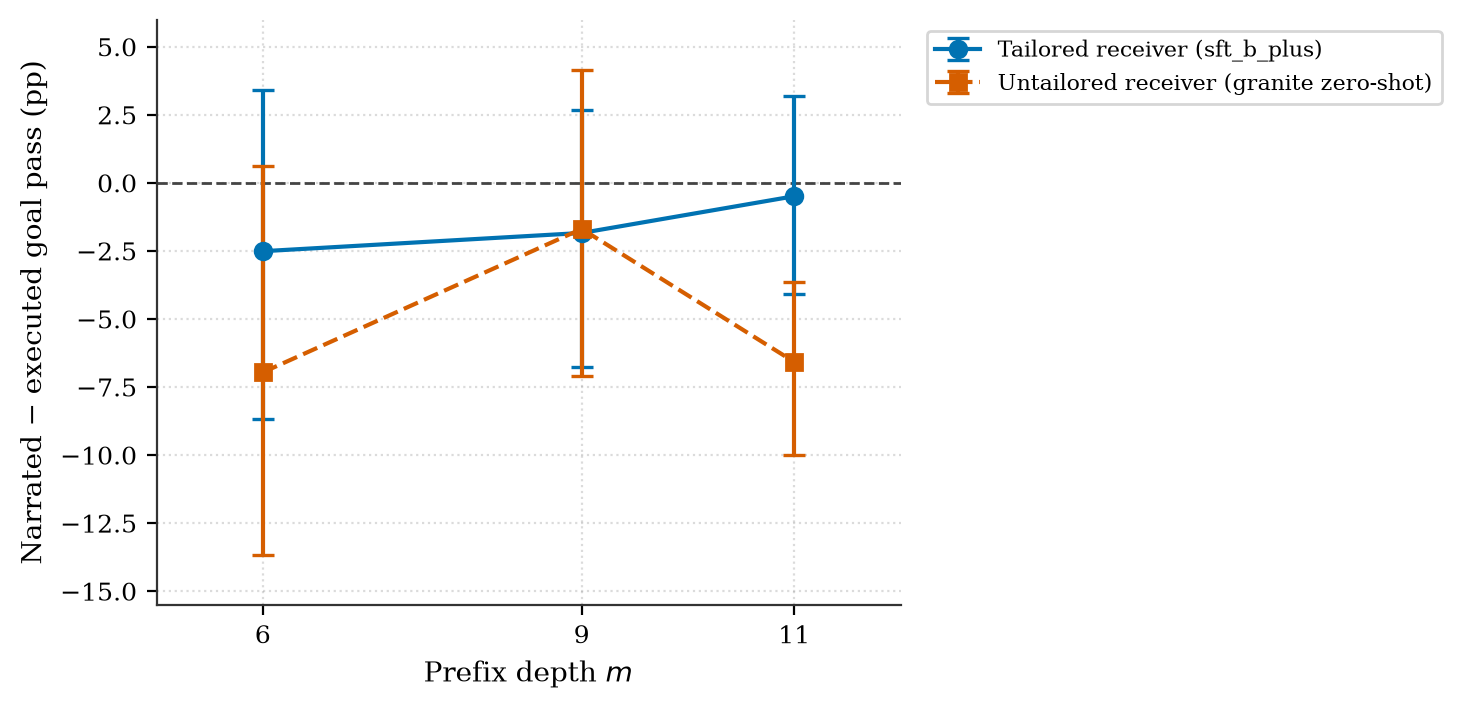
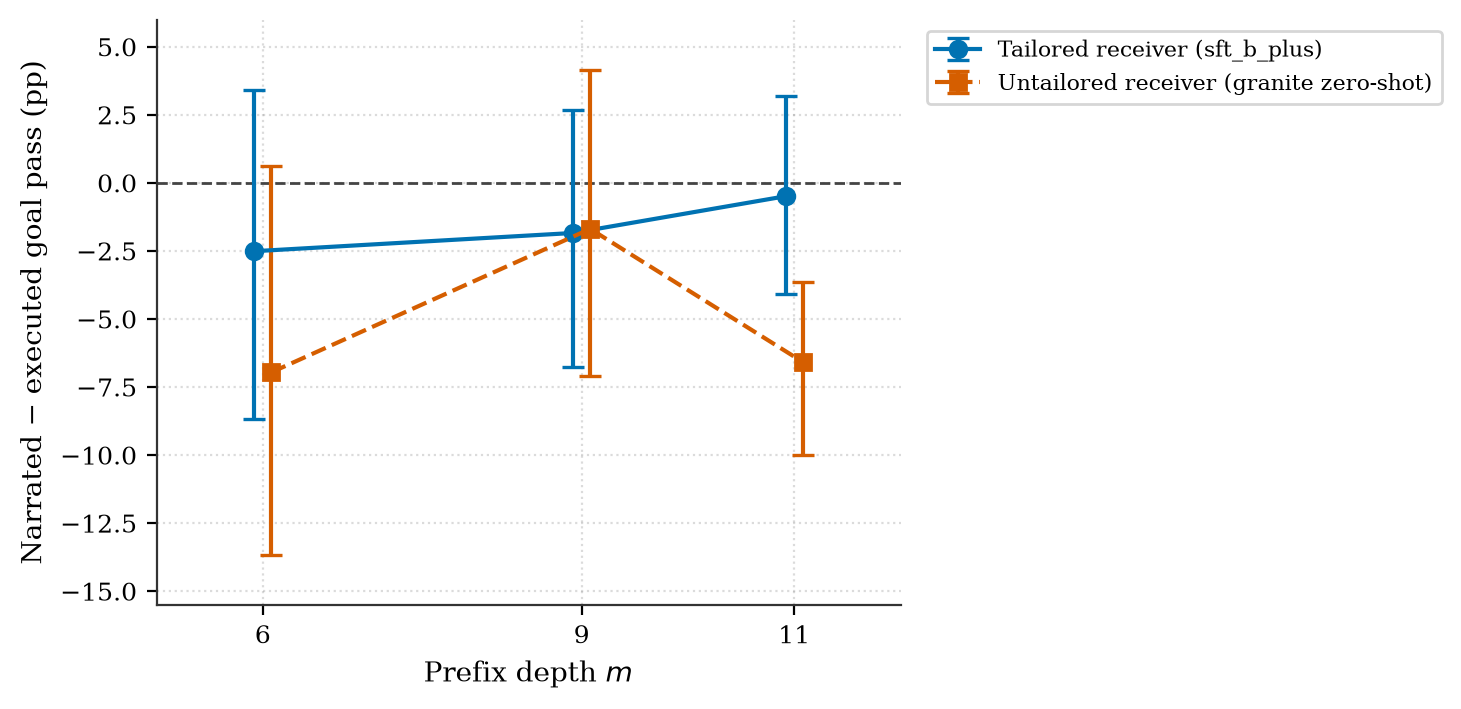
Dodge F7's two series so the crossing they exist to show is visible
The tailored and untailored points sat on top of each other at m=9 (-1.84 against -1.69), which
is exactly where the two receivers cross and the only place the figure's claim is legible. A
+/-0.08 horizontal offset on the markers and error bars separates them; tick labels stay at the
true depths and no y value, interval or caption number moved. F8's x limit widened so the
rightmost annotation cannot clip.

Verified rather than accepted: read the diff (8 lines, all x-axis), re-ran the full suite myself
at 627 passed 1 skipped, and looked at the render.

Claude-Session: https://claude.ai/code/session_01WAcXxoXWcJdXBPnbnHPek8

diff --git a/scripts/analysis/figures.py b/scripts/analysis/figures.py
@@ -1208,19 +1208,21 @@ def generate_f7_narrated_minus_executed(
             PALETTE["tailored"],
             results_dir / "hj16_narrated_curve_bplus_20260923.report.json",
             "goal_pass_all_narrated_t_m{m}_minus_executed_t_m{m}",
+            -0.08,
         ),
         (
             "Untailored receiver (granite zero-shot)",
             PALETTE["zeroshot"],
             results_dir / "hj16_narrated_curve_zs_20260923.report.json",
             "goal_pass_all_narrated_m{m}_minus_executed_m{m}",
+            0.08,
         ),
     ]
 
     fig, ax = plt.subplots(figsize=(4.8, 3.8))
     manifest_series: list[dict[str, Any]] = []
 
-    for label, style, report_path, contrast_template in receiver_specs:
+    for label, style, report_path, contrast_template, x_offset in receiver_specs:
         report_data = load_report_json(report_path, fig_id)
         values: list[float] = []
         ci_lowers: list[float] = []
@@ -1244,7 +1246,7 @@ def generate_f7_narrated_minus_executed(
         yerr_lower = [value - lower for value, lower in zip(values, ci_lowers)]
         yerr_upper = [upper - value for value, upper in zip(values, ci_uppers)]
         ax.errorbar(
-            m_list,
+            [m + x_offset for m in m_list],
             values,
             yerr=[yerr_lower, yerr_upper],
             color=style["color"],
@@ -1370,7 +1372,7 @@ def generate_f8_advice_cost_quality(
     tokens_values = [tokens for _, _, _, tokens, _, _ in arm_values]
     quality_values = [quality for _, _, quality, _, _, _ in arm_values]
     ax.set_xscale("log")
-    ax.set_xlim(min(tokens_values) / 1.8, max(tokens_values) * 2.0)
+    ax.set_xlim(min(tokens_values) / 1.8, max(tokens_values) * 2.5)
     ax.set_ylim(min(quality_values) - 0.04, max(quality_values) + 0.04)
     ax.set_xlabel("Non-cached planner tokens per episode (log scale)")
     ax.set_ylabel("Goal pass rate")

diff --git a/tests/unit/test_figures.py b/tests/unit/test_figures.py
@@ -455,12 +455,21 @@ def test_f7_narrated_minus_executed_generation_and_manifest(tmp_path: Path) -> N
     out_dir = tmp_path / "figures"
     _populate_all_standard_fixtures(results_dir)
 
-    entry = generate_f7_narrated_minus_executed(results_dir, out_dir)
+    errorbar_x = []
+    original_errorbar = plt.Axes.errorbar
+
+    def mocked_errorbar(self, *args, **kwargs):
+        errorbar_x.append(list(args[0]))
+        return original_errorbar(self, *args, **kwargs)
+
+    with patch.object(plt.Axes, "errorbar", mocked_errorbar):
+        entry = generate_f7_narrated_minus_executed(results_dir, out_dir)
     assert entry["figure_id"] == "F7"
     assert Path(entry["file_pdf"]).is_file()
     assert Path(entry["file_png"]).is_file()
     assert len(entry["series"]) == 2
     assert all(series["n_points"] == 3 for series in entry["series"])
+    assert errorbar_x == [[5.92, 8.92, 10.92], [6.08, 9.08, 11.08]]
     assert "below zero mean execution beat narration" in entry["caption"]
     assert "not a difference-in-differences" in entry["caption"]
 

diff --git a/campaign/workers/STATUS_X49.md b/campaign/workers/STATUS_X49.md
@@ -27,3 +27,22 @@
   `15 passed in 7.68s`
   `hpc: full job log (with the site epilogue) at /tmp/hpc-x49-spool/20260922-221351-9.out`
 - Could not finish: nothing; requested implementation, tests, and figure generation completed [OBSERVED paper/figures/figures_manifest.json:248-322] [INFERRED].
+
+## Round 2
+
+- F7 now applies x offsets −0.08 to tailored and +0.08 to untailored while retaining true ticks 6, 9, 11; y values and y-error arrays remain sourced identically [OBSERVED scripts/analysis/figures.py:1204-1251] [OBSERVED scripts/analysis/figures.py:1271-1276].
+- F8 widens the log-axis upper limit to 2.5× the maximum token value; all four annotation offsets remain unchanged [OBSERVED scripts/analysis/figures.py:1322-1326] [OBSERVED scripts/analysis/figures.py:1361-1376].
+- Added a regression assertion for the F7 dodge [OBSERVED tests/unit/test_figures.py:453-474]. Final F7/F8 renders and manifest entries were regenerated [OBSERVED paper/figures/figures_manifest.json:248-320].
+- Test command [OBSERVED /tmp/hpc-x49-spool/20260922-222321-9.out:39]:
+  `env TMPDIR=/tmp HPC_SPOOL=/tmp/hpc-x49-spool timeout 1800 hpc -c 8 -m 32gb -t 00:25:00 bash -lc 'cd /mnt/hpccs01/home/n12194778/iaes/.claude/worktrees/plan-2026-09-15 && export APPWORLD_ROOT=/scratch/n12194778/sidekick/appworld OMP_NUM_THREADS=1 OPENBLAS_NUM_THREADS=1 MKL_NUM_THREADS=1 PYTHONPATH=src:. && timeout 900 /scratch/n12194778/sidekick/env/bin/python -m pytest tests/unit/test_figures.py -q 2>&1 | tail -10'`
+- Verbatim final test output [OBSERVED /tmp/hpc-x49-spool/20260922-222321-9.out:39]:
+  `hpc: 25711085.aqua queued (cpu_inter, 8 cpu, 32gb, walltime 00:25:00)`
+  `hpc: waiting. Ctrl-C detaches; the job keeps running (qdel 25711085 to stop it).`
+  `hpc: queued...`
+  `hpc: running on a compute node`
+  `hpc: finished after 60s`
+  `---`
+  `hpc: full job log (with the site epilogue) at /tmp/hpc-x49-spool/20260922-222321-9.out`
+  `...............                                                          [100%]`
+  `15 passed in 6.80s`
+- Could not finish: nothing; Round 2 readability fix and verification completed [OBSERVED paper/figures/figures_manifest.json:248-320] [INFERRED].
